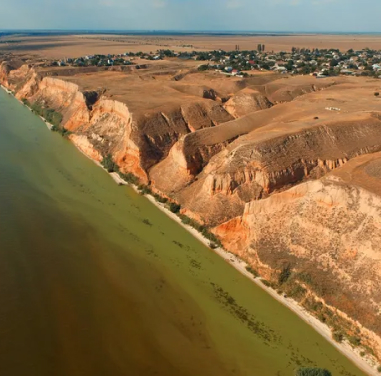
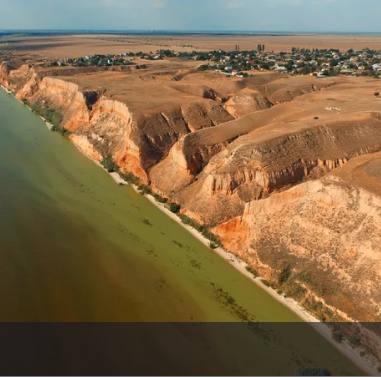
update media screen_2

Changed region(s): [[0.0, 0.8462, 1.0, 1.0]]

diff --git a/css/style.css b/css/style.css
@@ -937,7 +937,7 @@ body {
   left: 0;
   width: 331px;
   color: #ffffff;
-  background: rgba(21, 24, 36, 0.6);
+  /* background: rgba(21, 24, 36, 0.6); */
   padding: 16px 25px;
 }
 
@@ -1081,7 +1081,8 @@ body {
     grid-column-gap: 35px;
   }
   .benefits_title {
-    padding: 55px 15px;
+    padding: 55px 0;
+    width: 100%;
   }
   .benefits_wrap {
     box-shadow: none;
@@ -1114,9 +1115,9 @@ body {
   .top_card-pic{
     margin-bottom: 25px;
   }
-  .top_card-stats{
-    max-width: 386px;
-  }
+  /* .top_card-stats{
+    max-width: 100%;
+  } */
 }
 
 @media screen and (max-width: 767px) {
@@ -1205,7 +1206,9 @@ body {
   .benefits{
     margin-bottom: 36px;
   }
-  
+  .benefits_title {
+    padding: 55px 0;
+  }
   .benefits_card{
     grid-column: span 3;
   }
@@ -1234,7 +1237,7 @@ body {
     margin-bottom: 0;
   }
   .top_card-stats{
-    max-width: 386px;
+    background: 0;
   }
   .tours{
     margin-bottom: 76px;
@@ -1268,8 +1271,11 @@ body {
     width: 100%;
   }
   .footer_menu{
-    width: 25%;
+    width: 50%;
     margin-bottom: 24px;
+  }
+  .wrapper__header{
+    width: 100%;
   }
 }
 
@@ -1278,7 +1284,9 @@ body {
     padding: 75px 30px;
   }
   .top_card-stats{
-    max-width: 386px;
+    max-width: 100%;
+    align-items: center;
+    
   }
 }
 /* Media end */
